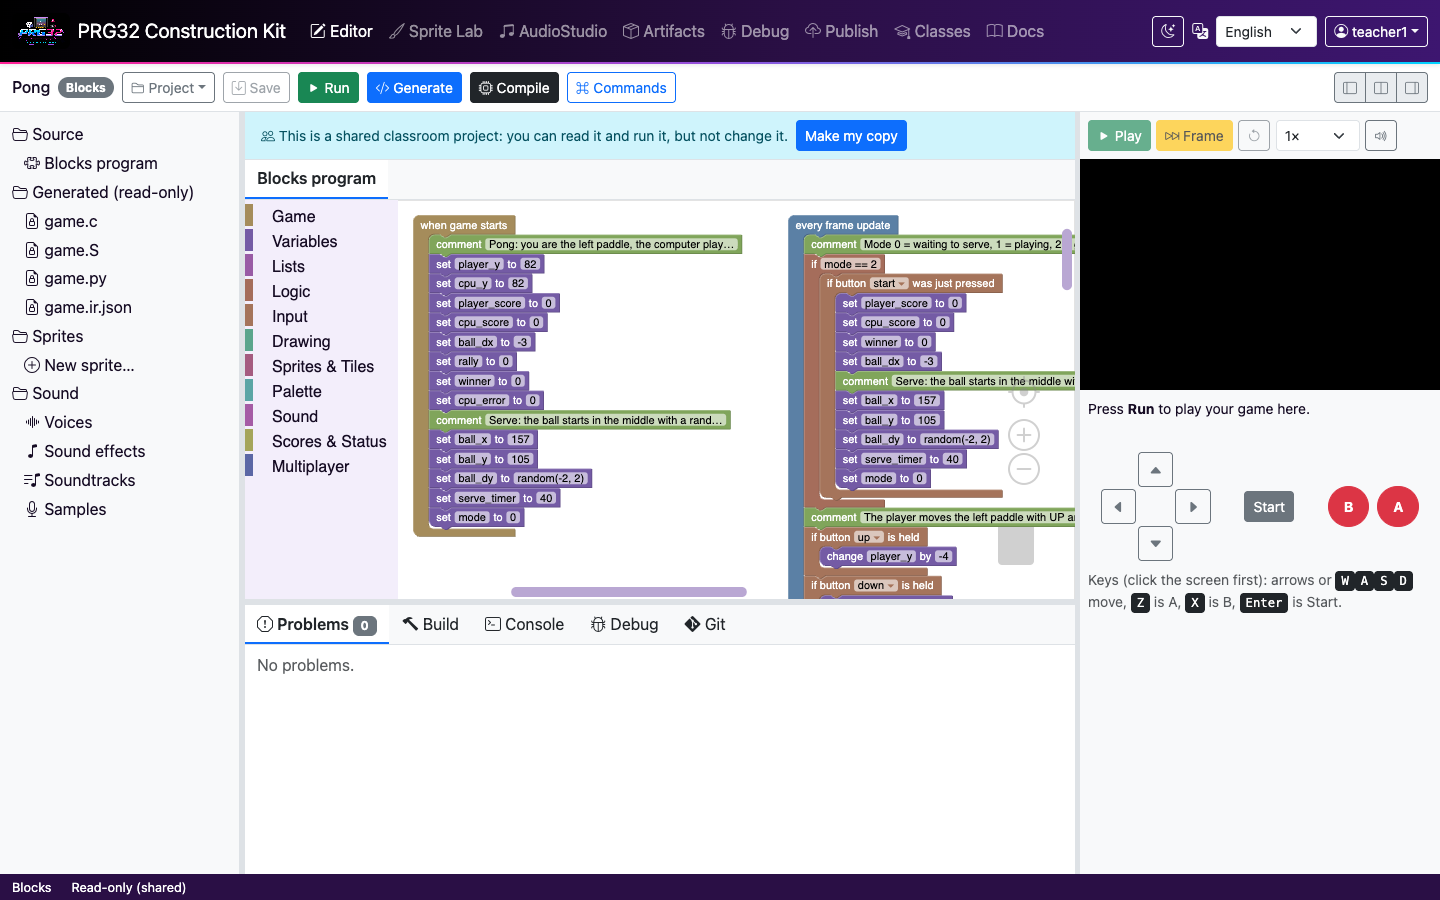
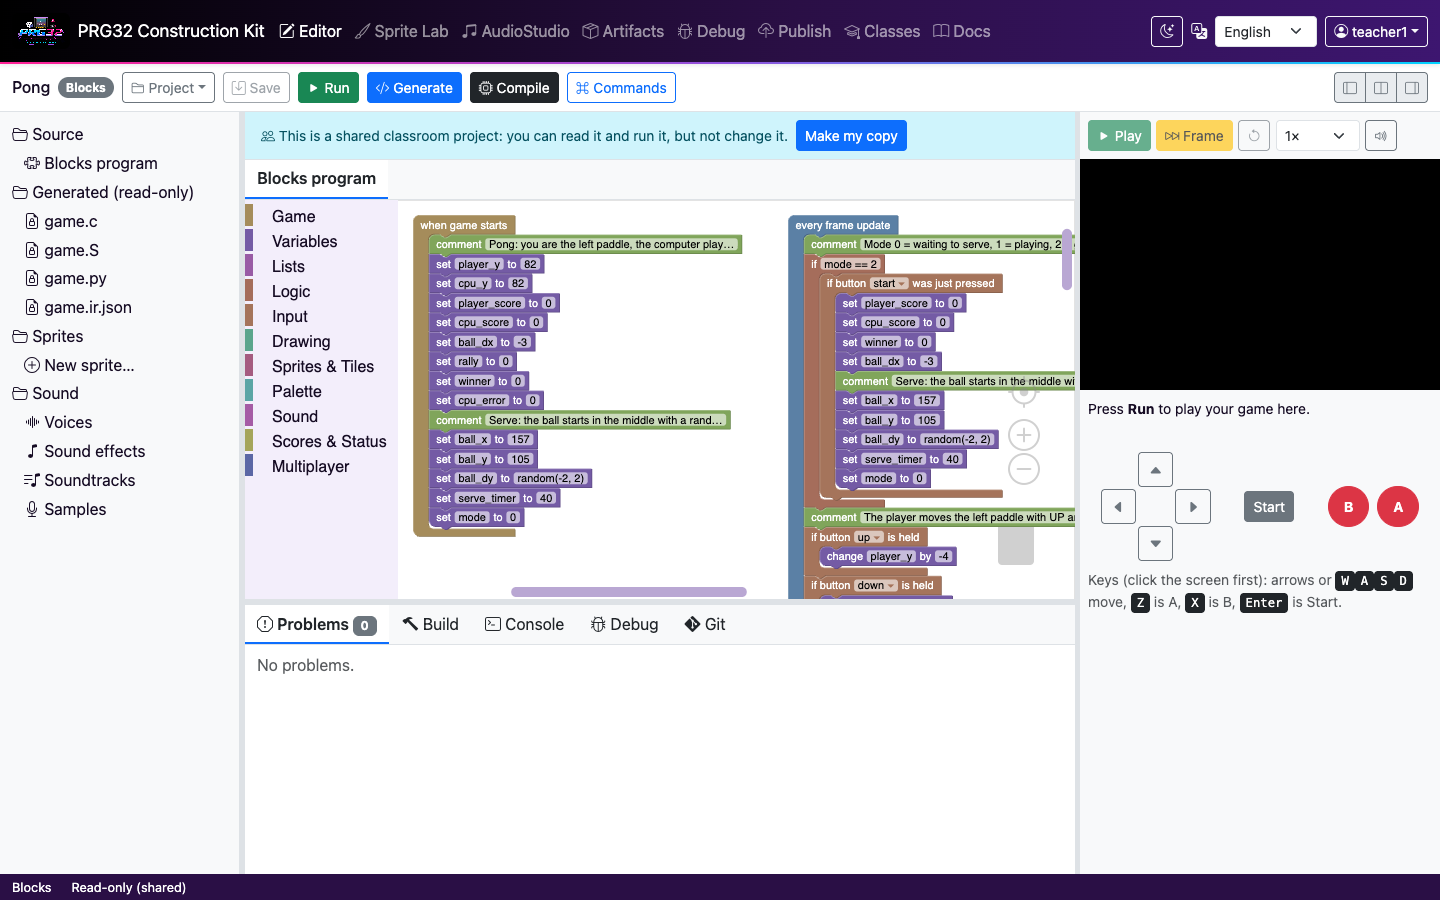
Documentation screenshots taken again at fe9dc34, and the IDE in each of the six languages [DOC-02] [I18N-01]
Captured with tools/capture_visuals.py from a throwaway kit (synthetic teacher1 account, sample
projects), reviewed and recorded in docs/figures/manifest.json; docs/i18n.md shows the six.

Changed region(s): [[0.0625, 0.0, 0.7188, 0.0622], [0.8125, 0.0311, 0.875, 0.0622]]

diff --git a/docs/i18n.md b/docs/i18n.md
@@ -21,6 +21,17 @@ messages are available in **English, Italiano, Español, Français, Deutsch and 
   [Italiano](tutorials/quickstart.it.md) · [Español](tutorials/quickstart.es.md) ·
   [Français](tutorials/quickstart.fr.md) · [Deutsch](tutorials/quickstart.de.md) · [简体中文](tutorials/quickstart.zh-Hans.md).
 
+## The IDE in every language
+
+Synthetic screenshots (`python3 tools/capture_visuals.py ide-<language>`, sample project Pong):
+
+- English: ![The IDE in English](figures/locales/ide.en.png)
+- Italiano: ![The IDE in Italiano](figures/locales/ide.it.png)
+- Español: ![The IDE in Español](figures/locales/ide.es.png)
+- Français: ![The IDE in Français](figures/locales/ide.fr.png)
+- Deutsch: ![The IDE in Deutsch](figures/locales/ide.de.png)
+- 简体中文: ![The IDE in 简体中文](figures/locales/ide.zh-Hans.png)
+
 ## The lessons in every language
 
 The classroom lessons (`docs/tutorials/`) are in all six languages: `<lesson>.md` is English,
